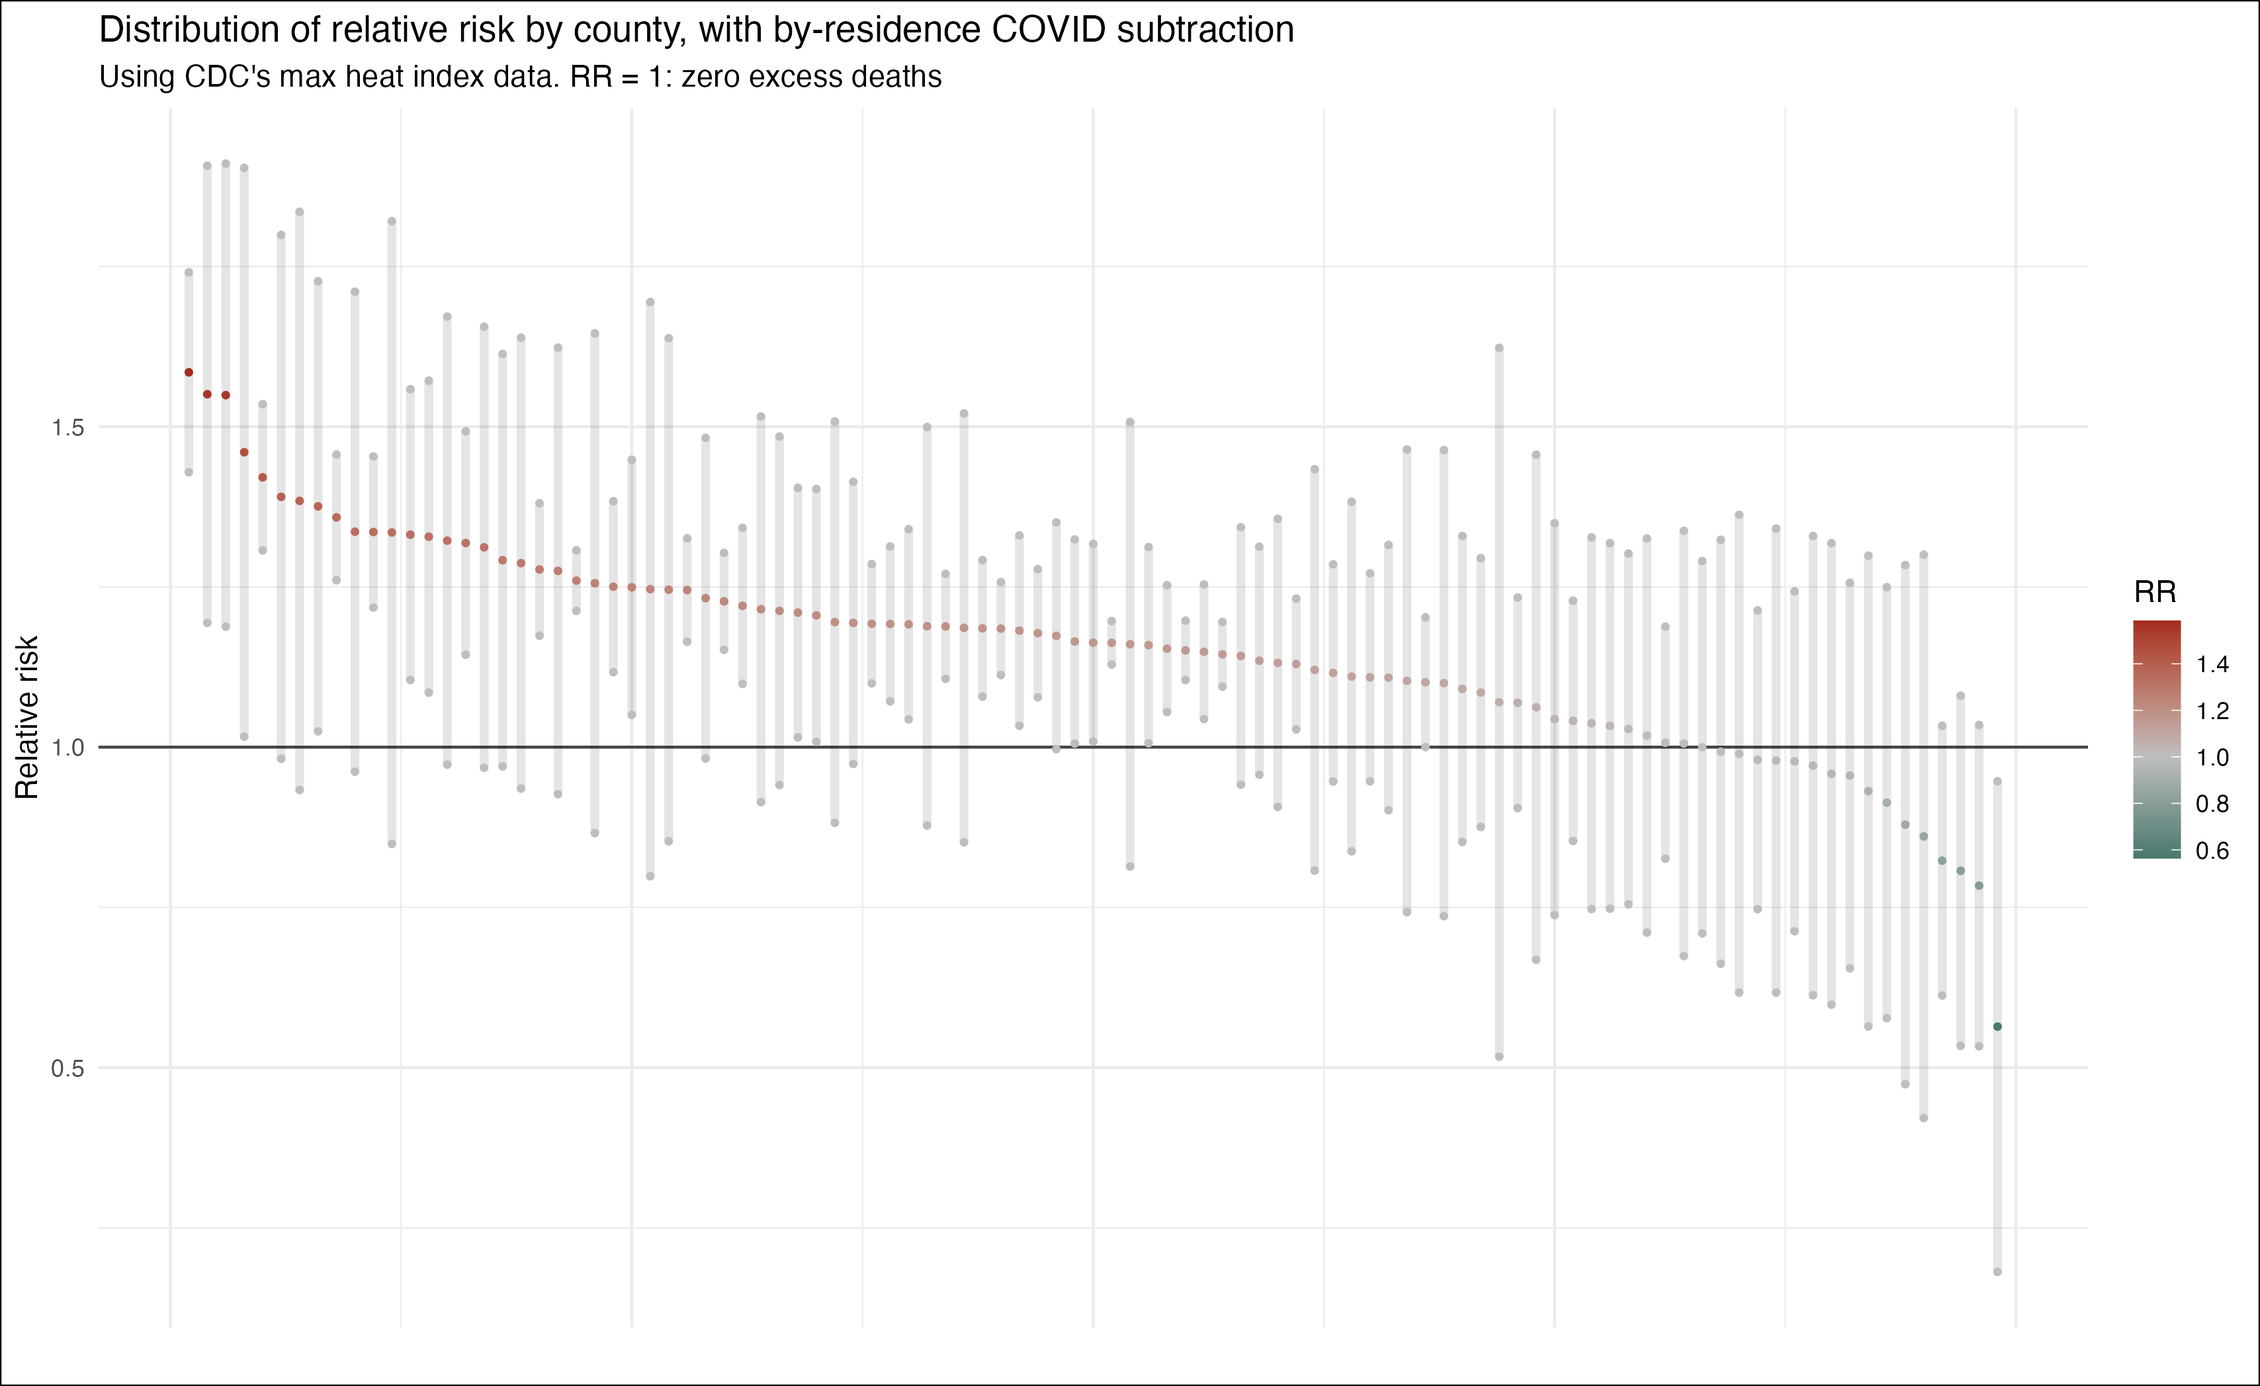
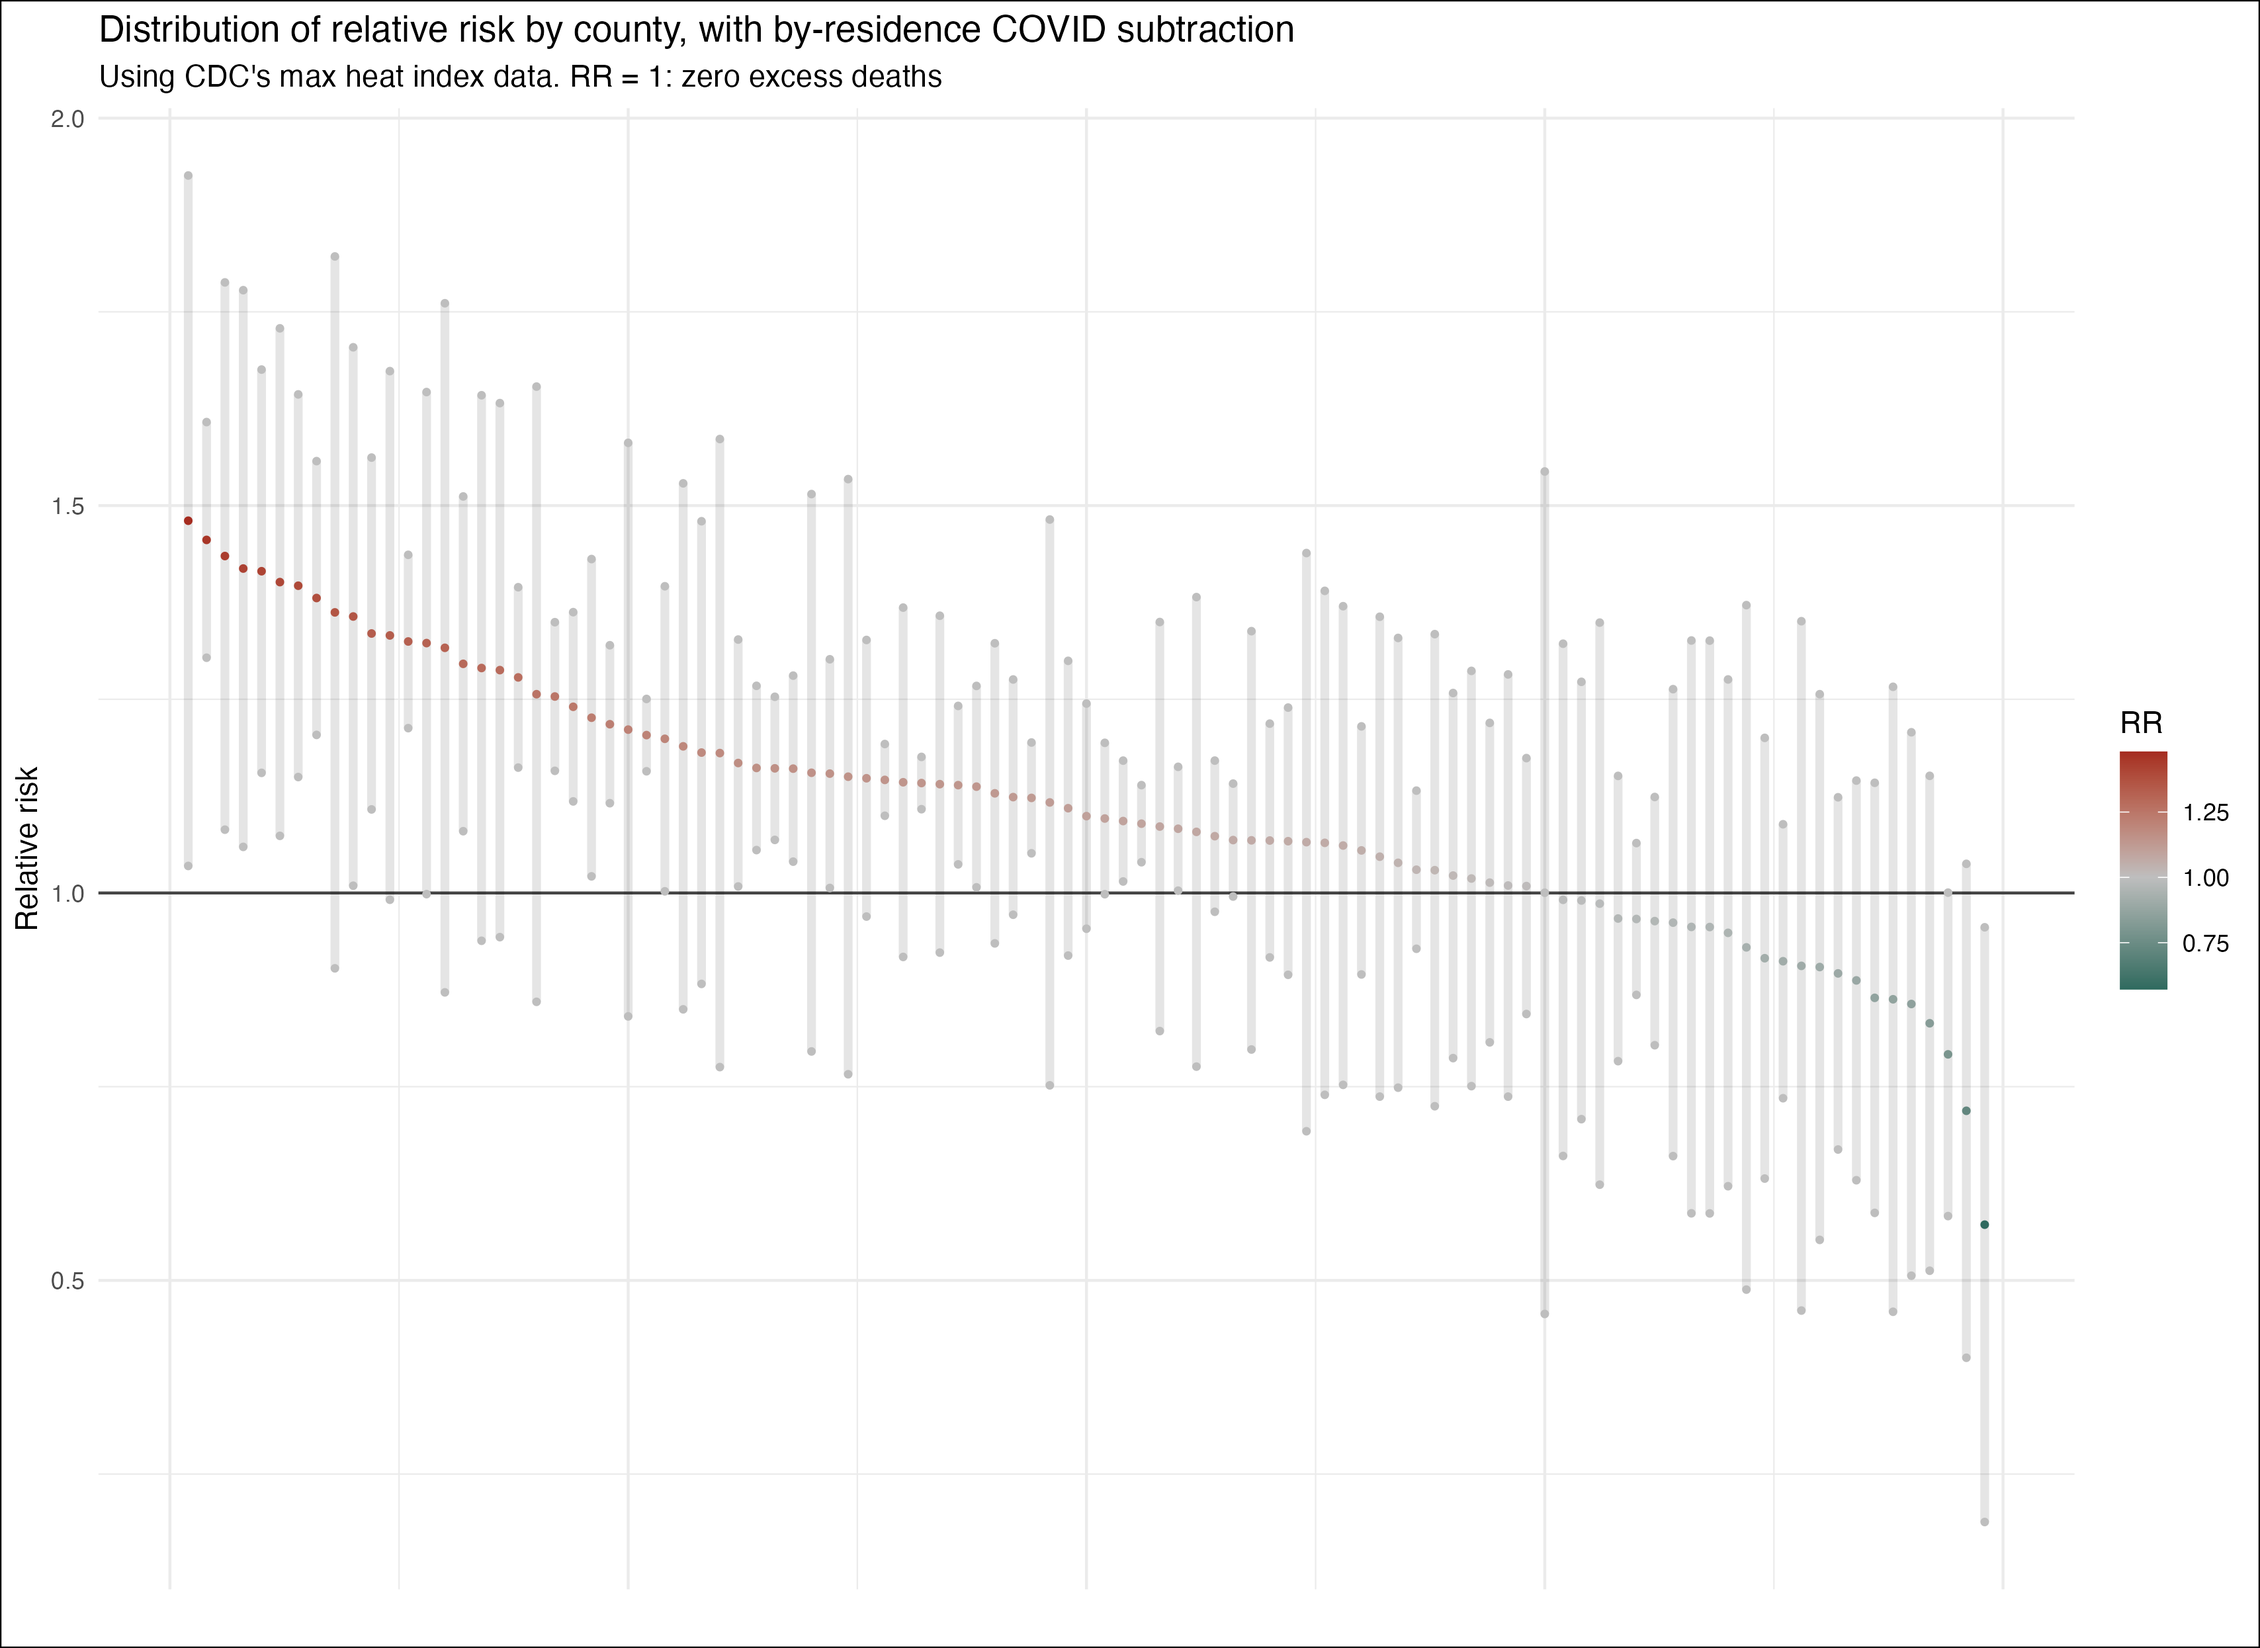
added a term for year in the model to account for trend

diff --git a/README.md b/README.md
@@ -5,11 +5,11 @@ The analysis is inspired by and mostly follows [an analysis conducted by the Los
 
 In short, this analysis extimates the excess deaths on extreme heat days for 99 largest county in Texas between May and September in 2020, 2021 and 2022.
 
-To do that, we built a statistical model to predict a 'normal' daily death counts on a day in a county between 2020 and 2022, had it not been an extreme heat day. To build a model, we used daily death tolls and maximum heat index for each county between 2013 and 2019. In other words, we built a model using pre-COVID data, and using that model, we estimated daily excess deaths by county during the pandemic.
+To do that, we built a statistical model to predict a 'normal' daily death counts on a day in a county between 2020 and 2022, had it not been an extreme heat day. To build a model, we used daily death tolls and maximum heat index for each county between 2013 and 2019. In other words, we built a model using pre-COVID data, and using that model, we estimated daily excess deaths by county during the pandemic. We are 
 
 The 99 counties included in this analysis had more than 25,000 people in the 2020 Census. We needed to exclude smaller counties from this analysis because there were simply not enough data to build a robust model and make an estimate. We set this 25,000 threshold because it would cover more than 90% (actually 94.8%) of the state's population.
 
-Daily excess deaths is calculated as actual deaths minus estimated deaths. For each 2013-2019 daily maximum heat index estimate, we defined whether the day was an extreme heat day -- above the county's 95th percentile value of 1981-2010 maximum heat index distribution. And the model explains, for each county, actual deaths as a function of whether it was an extreme heat day, while also controlling for 1) a month, 2) whether it was in the weekend (since there may be fewer death certificate submissions), 3) population increase.
+Daily excess deaths is calculated as actual deaths minus estimated deaths. For each 2013-2019 daily maximum heat index estimate, we defined whether the day was an extreme heat day -- above the county's 95th percentile value of 1981-2010 maximum heat index distribution. And the model explains, for each county, actual deaths as a function of whether it was an extreme heat day, while also controlling for 1) a year (to account for deaths or even crude death rates to naturally increasing due to population aging), 2) a month and 3) whether it was in the weekend (since there may be fewer death certificate submissions), as well as accountinf for 4) a population increase.
 
 After 2020, there are so many more excess deaths than before 2019, not surprisingly because of the COVID-19 pandemic. And it may be safe to think most excess deaths are due to COVID. To account for COVID deaths, we simply subtracted, from estimated excess deaths, the number of people who died of COVID (* as of May 24, the data is based on county of residence, so it's not accurate). We also subtracted deaths due to mass shootings.
 
@@ -25,6 +25,7 @@ Although our results have margins of errors, by looking at the average of lower 
 - Geographical distribution on relative risk (the number of people who died on extreme heat days divided by the estimated number of people who would have died had it not been an extreme heat day) on heat event days based on initial preliminary analysis:
 [Map (by-residence COVID deaths subtracted)](https://www.datawrapper.de/_/LTVsM/) | [Map (COVID deaths not subtracted)](https://www.datawrapper.de/_/aFPMM/)
 It's important to look at relative risk, since it indirectly accounts for population and other factors (age etc.) associated with counties. If two counties had the same population and same excess deaths on extreme heat days, per-capita excess deaths would be the same. But if one county's (county A) estimated deaths were half the size of the other county (county B), then relative risk on extreme heat days would be much higher in county A. This means that county A is much more vulnerable to extreme heat compared to county B.
+
 <img src="./mockup/initial_map_covid_subtracted.png" width="500"><img src="./mockup/initial_map.png" width="500">
 <img src="./mockup/distribution_rr.png" width="500">
 
